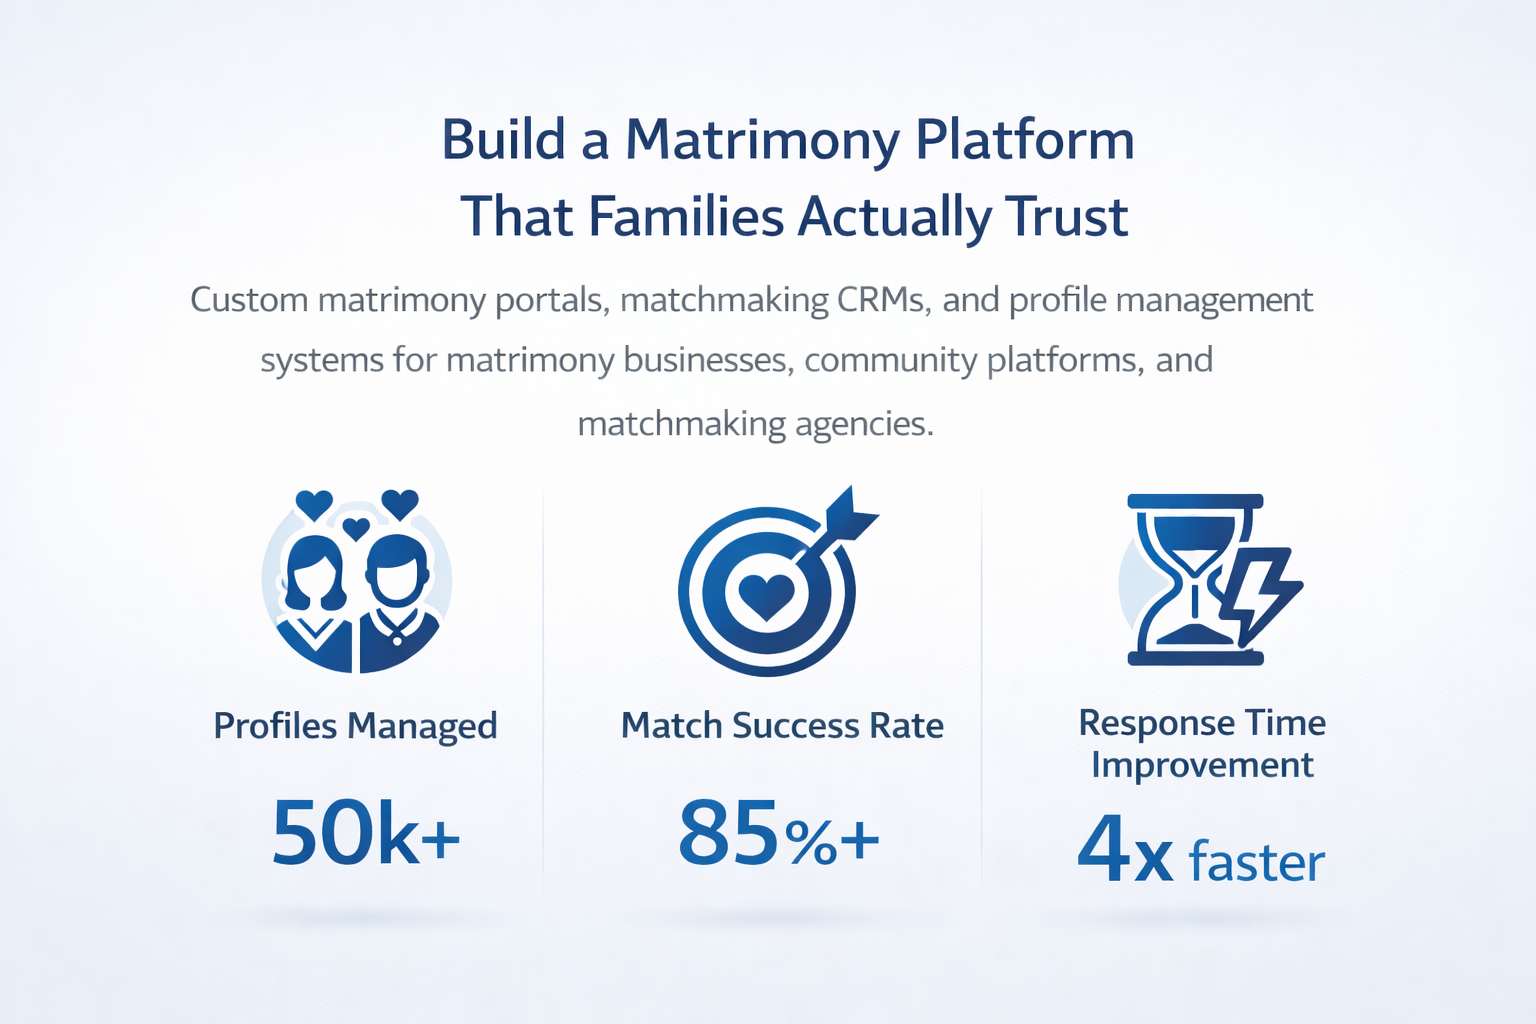
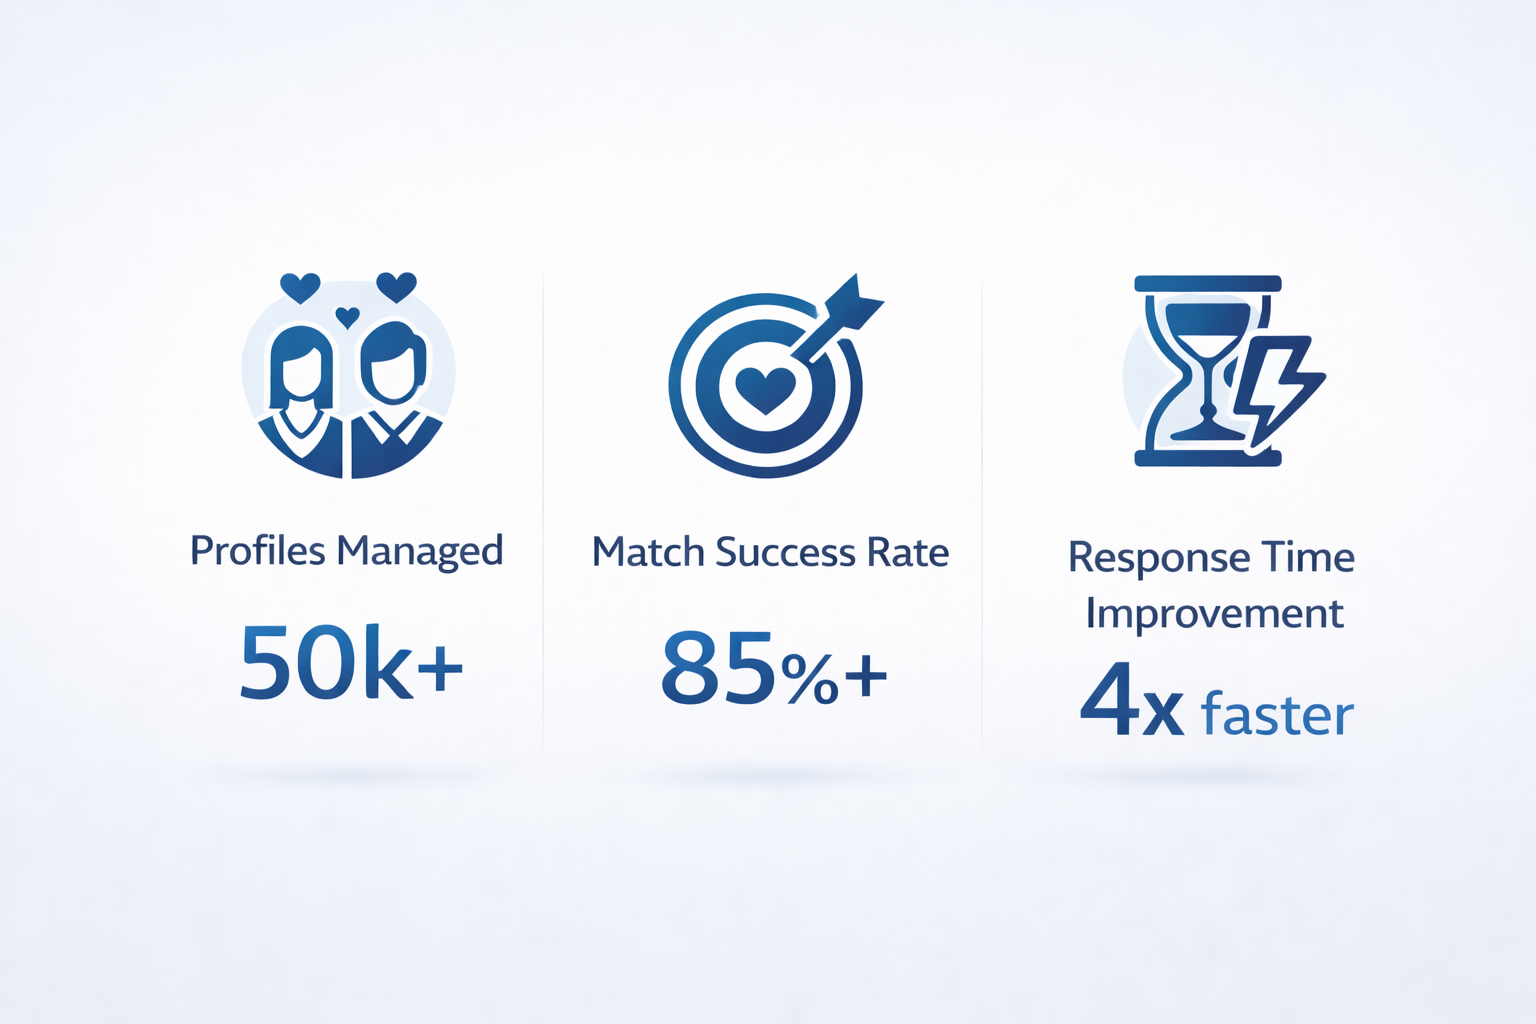
updated code

diff --git a/src/componants/pages/innerpages.js/Foof Booking/FoodOrdering.js b/src/componants/pages/innerpages.js/Foof Booking/FoodOrdering.js
@@ -148,8 +148,9 @@ const FoodOrdering = () => {
         <Box sx={{
           display: "grid",
           gridTemplateColumns: { xs: "1fr", sm: "repeat(2, 1fr)", md: "repeat(3, 1fr)" },
-          gap: { xs: "20px", md: "30px" },
-          mb: 8
+          rowGap: { xs: "20px", md: "80px" },
+          columnGap: { xs: "20px", md: "30px" },
+          mb: 8,
         }}>
           <FeatureCard
             icon={SmartphoneIcon}
